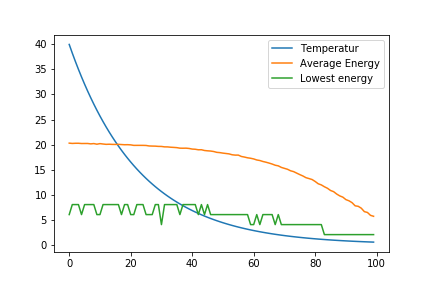
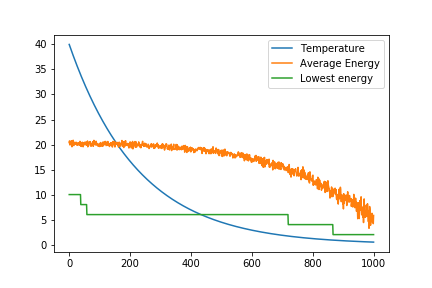
started runs with new implementation

diff --git a/necklace_model.py b/necklace_model.py
@@ -2,6 +2,7 @@ import sys
 import numpy as np
 import networkx as nx
 import matplotlib.pyplot as plt
+import random
 
 class Necklace:
     """
@@ -35,7 +36,7 @@ class Necklace:
 
         # seed the random generator
         if SEED > 0:
-            np.random.seed(SEED)
+            random.seed = SEED
 
         self.shuffle_state()
 
@@ -46,7 +47,7 @@ class Necklace:
         # set the classes of the nodes
         a = []
         while len(a) < (self.__m*self.__n/2):
-            x = np.random.randint(0,self.__m*self.__n)
+            x = int(self.__m*self.__n*random.random())
             if x not in a:
                 a.append(x)
 
@@ -80,7 +81,7 @@ class Necklace:
         """
 
         # Choose first node for random exchange
-        pos1 = np.random.randint(0,int(self.__m*self.__n))
+        pos1 = int(self.__m*self.__n*random.random())
         if pos1 >= int(self.__m*self.__n/2):
             val_pos1 = (1 << pos1-int(self.__m*self.__n/2)) & self._ext
             # Swap to other class
@@ -94,7 +95,7 @@ class Necklace:
 
         # choose other node until it has another class
         while True:
-            pos2 = np.random.randint(0,int(self.__m*self.__n))
+            pos2 = int(self.__m*self.__n*random.random())
             if pos1 == pos2:
                 continue
 

diff --git a/simulated_annealing.py b/simulated_annealing.py
@@ -1,6 +1,7 @@
 import sys
 import numpy as np
 from necklace_model import Necklace
+import random
 
 
 class Annealer:
@@ -65,7 +66,7 @@ class Annealer:
                     p = 0
                 else:
                     p = np.exp(-dE/T)
-                r = np.random.rand()
+                r = random.random()
                 # If change not accepted, go back to old model
                 if r > p:
                     self.__model.undo_random_exchange()
